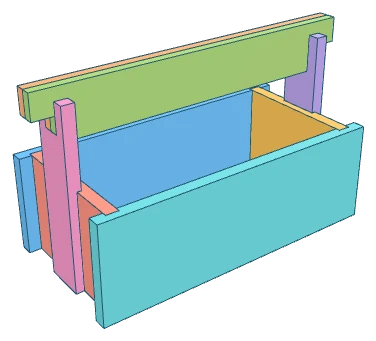
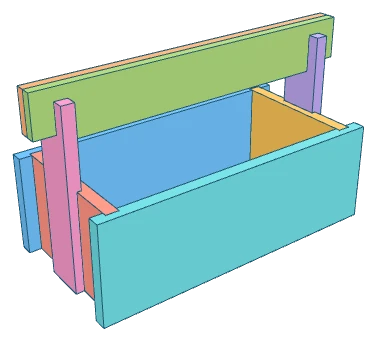
Seat continuous handle shoulders on riser bridle notches

Changed region(s): [[0.0293, 0.3226, 0.1463, 0.4399], [0.8484, 0.1173, 0.9069, 0.176]]

diff --git a/MISC.md b/MISC.md
@@ -89,7 +89,7 @@ Set `customizer` to `{}` to enable controls from the source's OpenSCAD Customize
 
 Optional `customizer.conditions` maps a dependent field to `{ "parameter": "controlling_field", "value": "enabled_value" }`. Use this only for dependencies established by the source. The saw guide enables the ratio and angle inputs in their respective modes. These conditions live in metadata; parameter defaults, descriptions, and ranges remain in the SCAD file.
 
-Optional `customizer.units` is `mm` (the default) or `inches` and labels dimensional inputs without converting source values. Displayed mesh bounds, section positions and STL coordinates remain millimetres. The tool tote uses inch inputs and scales its geometry in the SCAD source. It exposes assembly, exploded, bridle-detail and individual-part views through its `Part` parameter, with the explosion distance and optional screw dimensions enabled only when applicable. Its source includes the stopped bottom grooves and confirmed joinery defaults. Both handle tips have underside cutaways beyond the outer edges of the bridle notches. `Handle_end_cutaway_depth` defaults to 1.5 inches (undimensioned in the sketch), accepts zero to disable the cutaways, and must leave some tip height. It affects both laminations; the separate 0.5-inch notch depth, notch-seat elevation, and full 3-inch-high cut-list blanks are retained. The default assembly STL is generated with the same OpenRSCAD engine as live edits; use individual-part views for fabrication exports because the nominal assembly has touching components. Keep the source synchronized with the authored tote model when revising it.
+Optional `customizer.units` is `mm` (the default) or `inches` and labels dimensional inputs without converting source values. Displayed mesh bounds, section positions and STL coordinates remain millimetres. The tool tote uses inch inputs and scales its geometry in the SCAD source. It exposes assembly, exploded, bridle-detail and individual-part views through its `Part` parameter, with the explosion distance and optional screw dimensions enabled only when applicable. Its source includes the stopped bottom grooves and confirmed joinery defaults. Each handle underside notch continues from the riser's inner edge through the handle end, giving both laminations one continuous bearing surface on the riser-slot floor. `Handle_notch_depth` (0.5 inches by default) controls that shared shoulder; there is no independently raised tip. The default shoulder and slot floor are both at Z=9 inches, the handle top is Z=11.5 inches, and the riser top is Z=10.75 inches. Cut-list blanks retain their full 3-inch height. The default assembly STL is generated with the same OpenRSCAD engine as live edits; use individual-part views for fabrication exports because the nominal assembly has touching components. Keep the source synchronized with the authored tote model when revising it.
 
 Optional `customizer.outputLabel` displays the source's `echo()` output in a collapsible panel. These entries compile once when loading their parameters to populate the default output while the committed mesh remains visible; subsequent successful updates replace the output alongside the model. Pending or failed changes label retained output as belonging to previous settings. For the tote’s grouped woodworking table, use the `customizer.cutList` contract below; `Show_cut_list` in the source controls its visibility.
 
